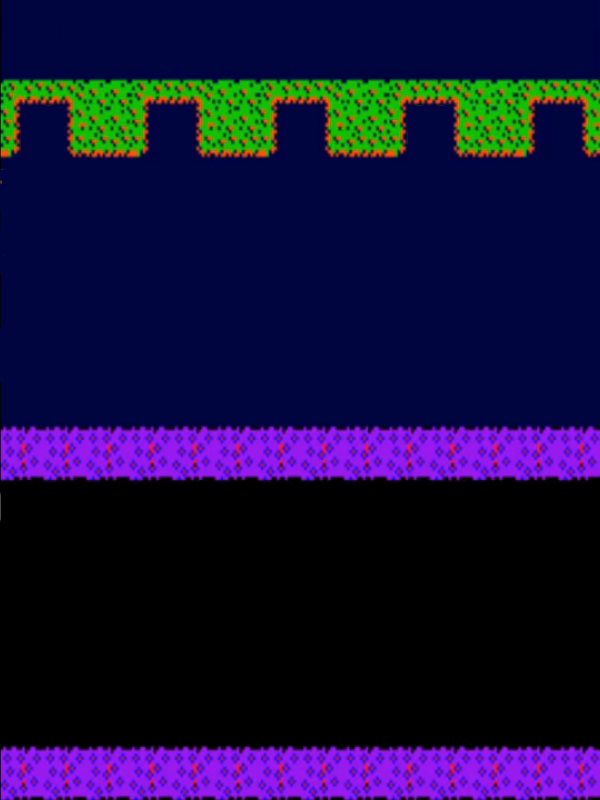
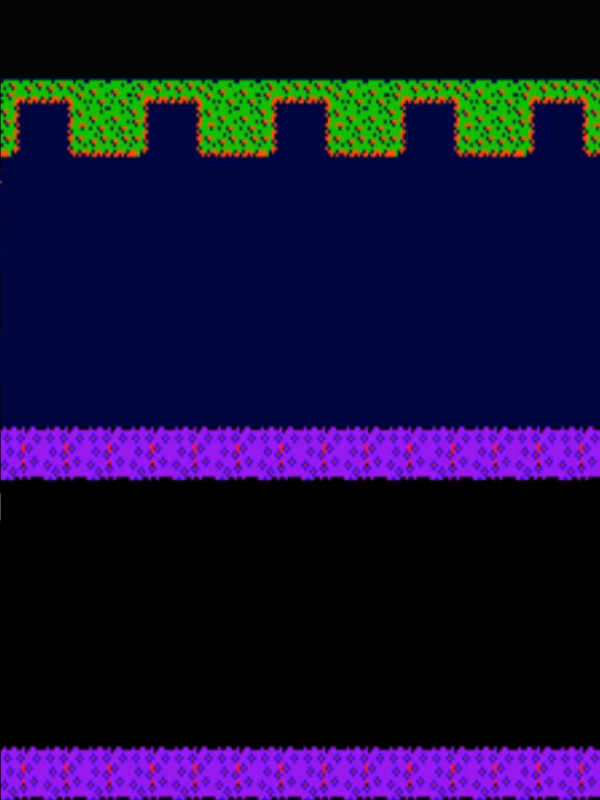
Changed background & added new arrow controls

Changed region(s): [[0.0, 0.0, 1.0, 0.125]]

diff --git a/src/p4_group_8_repo/Animal.java b/src/p4_group_8_repo/Animal.java
@@ -47,48 +47,41 @@ public class Animal extends Actor {
 		setOnKeyPressed(new EventHandler<KeyEvent>() {
 			public void handle(KeyEvent event){
 				if (noMove) {
-					
+					//Doing nothing because not moving
 				}
 				else {
 				if (second) {
-					if (event.getCode() == KeyCode.W) {	  
+					if (event.getCode() == KeyCode.W || event.getCode() == KeyCode.UP) {	  
 		                move(0, -movement);
 		                changeScore = false;
 		                setImage(imgW1);
 		                second = false;
-		            }
-		            else if (event.getCode() == KeyCode.A) {	            	
+		            }else if (event.getCode() == KeyCode.A || event.getCode() == KeyCode.LEFT) {	            	
 		            	 move(-movementX, 0);
 		            	 setImage(imgA1);
 		            	 second = false;
-		            }
-		            else if (event.getCode() == KeyCode.S) {	            	
+		            }else if (event.getCode() == KeyCode.S || event.getCode() == KeyCode.DOWN) {	            	
 		            	 move(0, movement);
 		            	 setImage(imgS1);
 		            	 second = false;
-		            }
-		            else if (event.getCode() == KeyCode.D) {	            	
+		            }else if (event.getCode() == KeyCode.D || event.getCode() == KeyCode.RIGHT) {	            	
 		            	 move(movementX, 0);
 		            	 setImage(imgD1);
 		            	 second = false;
 		            }
-				}
-				else if (event.getCode() == KeyCode.W) {	            	
+				}else if (event.getCode() == KeyCode.W || event.getCode() == KeyCode.UP) {	            	
 	                move(0, -movement);
 	                setImage(imgW2);
 	                second = true;
-	            }
-	            else if (event.getCode() == KeyCode.A) {	            	
+	            }else if (event.getCode() == KeyCode.A || event.getCode() == KeyCode.LEFT) {	            	
 	            	 move(-movementX, 0);
 	            	 setImage(imgA2);
 	            	 second = true;
-	            }
-	            else if (event.getCode() == KeyCode.S) {	            	
+	            }else if (event.getCode() == KeyCode.S || event.getCode() == KeyCode.DOWN) {	            	
 	            	 move(0, movement);
 	            	 setImage(imgS2);
 	            	 second = true;
-	            }
-	            else if (event.getCode() == KeyCode.D) {	            	
+	            }else if (event.getCode() == KeyCode.D || event.getCode() == KeyCode.RIGHT) {	            	
 	            	 move(movementX, 0);
 	            	 setImage(imgD2);
 	            	 second = true;
@@ -100,7 +93,7 @@ public class Animal extends Actor {
 			public void handle(KeyEvent event) {
 				if (noMove) {}
 				else {
-				if (event.getCode() == KeyCode.W) {	  
+				if (event.getCode() == KeyCode.W || event.getCode() == KeyCode.UP) {	  
 					if (getY() < w) {
 						changeScore = true;
 						w = getY();
@@ -110,17 +103,17 @@ public class Animal extends Actor {
 	                setImage(imgW1);
 	                second = false;
 	            }
-	            else if (event.getCode() == KeyCode.A) {	            	
+	            else if (event.getCode() == KeyCode.A || event.getCode() == KeyCode.LEFT) {	            	
 	            	 move(-movementX, 0);
 	            	 setImage(imgA1);
 	            	 second = false;
 	            }
-	            else if (event.getCode() == KeyCode.S) {	            	
+	            else if (event.getCode() == KeyCode.S || event.getCode() == KeyCode.DOWN) {	            	
 	            	 move(0, movement);
 	            	 setImage(imgS1);
 	            	 second = false;
 	            }
-	            else if (event.getCode() == KeyCode.D) {	            	
+	            else if (event.getCode() == KeyCode.D || event.getCode() == KeyCode.RIGHT) {	            	
 	            	 move(movementX, 0);
 	            	 setImage(imgD1);
 	            	 second = false;

diff --git a/src/p4_group_8_repo/Main.java b/src/p4_group_8_repo/Main.java
@@ -32,7 +32,7 @@ public class Main extends Application {
 		//Obstacle obstacle2 = new Obstacle("file:src/p4_group_8_repo/truck1Right.png",0,  150, 1);
 
 		//BackgroundImage froggerback = new BackgroundImage("file:src/p4_group_8_repo/Screen Shot 2017-05-29 at 10.02.14 PM.png");
-		BackgroundImage froggerback = new BackgroundImage("file:src/p4_group_8_repo/frog background.png");
+		BackgroundImage froggerback = new BackgroundImage("file:src/p4_group_8_repo/frog background2.png");
 	    
 		background.add(froggerback);
 		

diff --git a/src/p4_group_8_repo/Actor.java b/src/p4_group_8_repo/Actor.java
@@ -36,7 +36,6 @@ public abstract class Actor extends ImageView{
     }
     
     public void manageInput(InputEvent e) {
-        
     }
 
     public <A extends Actor> A getOneIntersectingObject(java.lang.Class<A> cls) {
